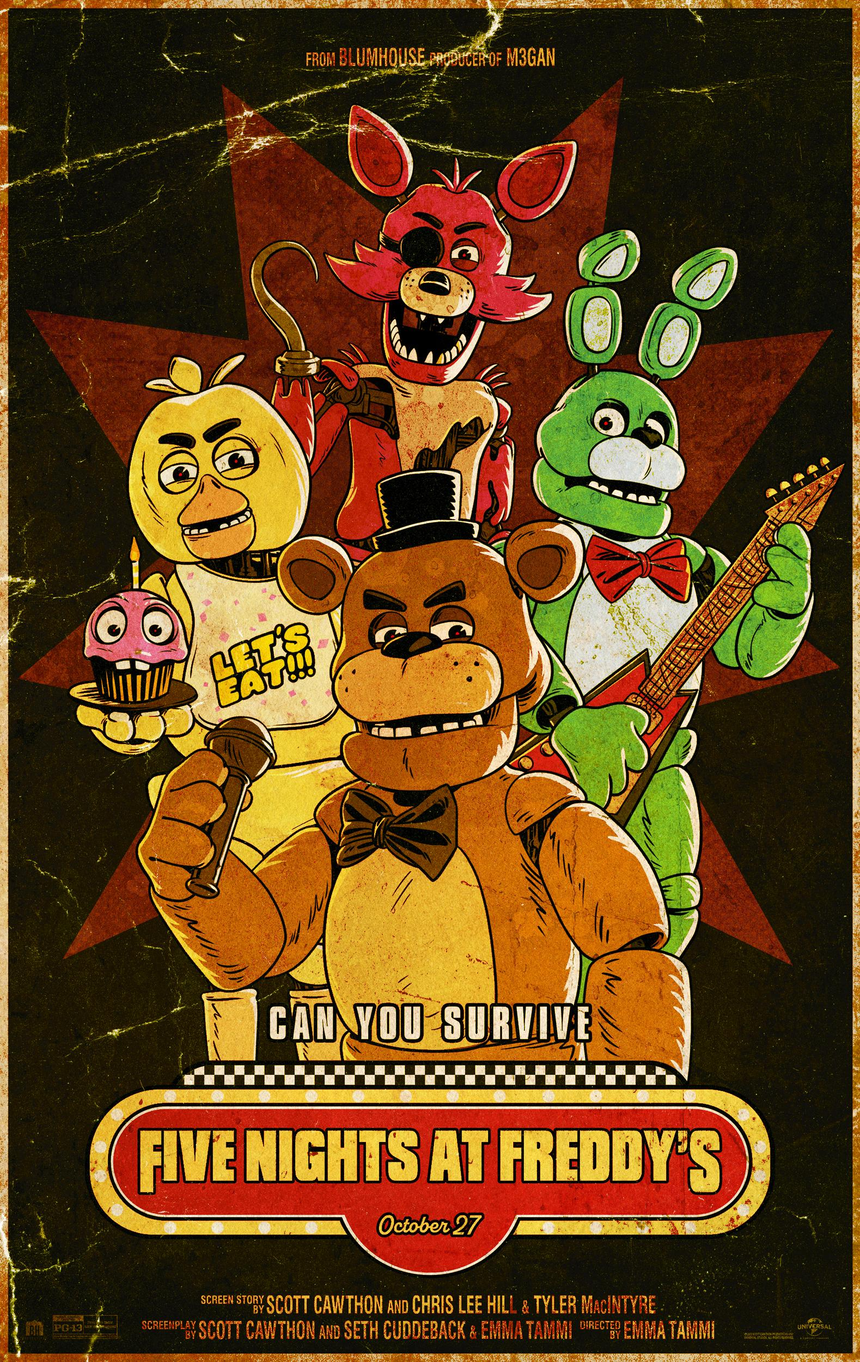
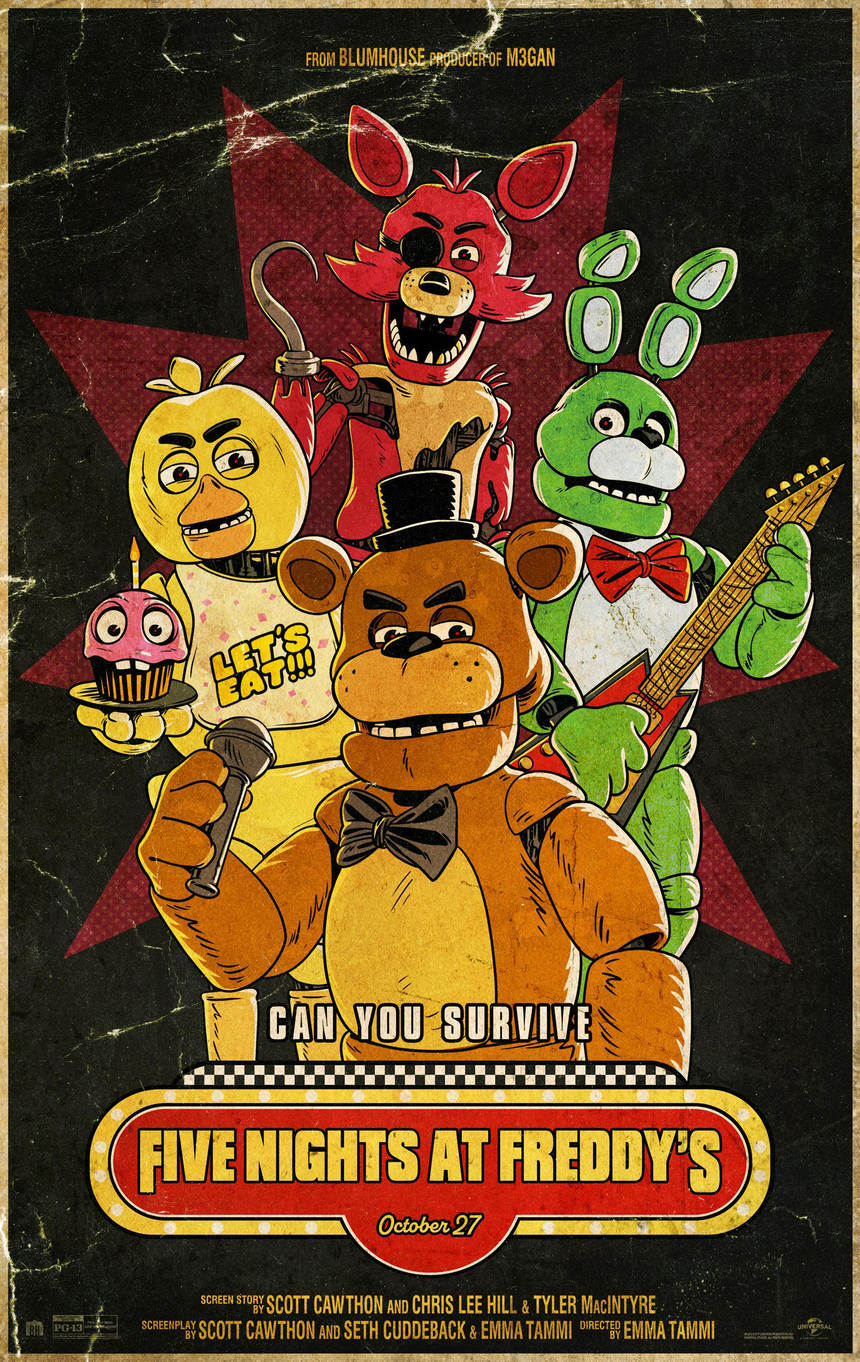
Fine tuned btg

diff --git a/main.py b/main.py
@@ -61,7 +61,7 @@ class Question2Screen(Screen):
         for y in range(img.size[1]):
             for x in range(img.size[0]):
 
-                if pixels[x,y][2]>=15 and pixels[x,y][0]<200 and pixels[x,y][1]<200:
+                if pixels[x,y][2]>=100 and pixels[x,y][0]<170 and pixels[x,y][1]<170:
                     temp=pixels[x,y][1]
                     red = pixels[x,y][0]
                     green = pixels[x,y][2]
